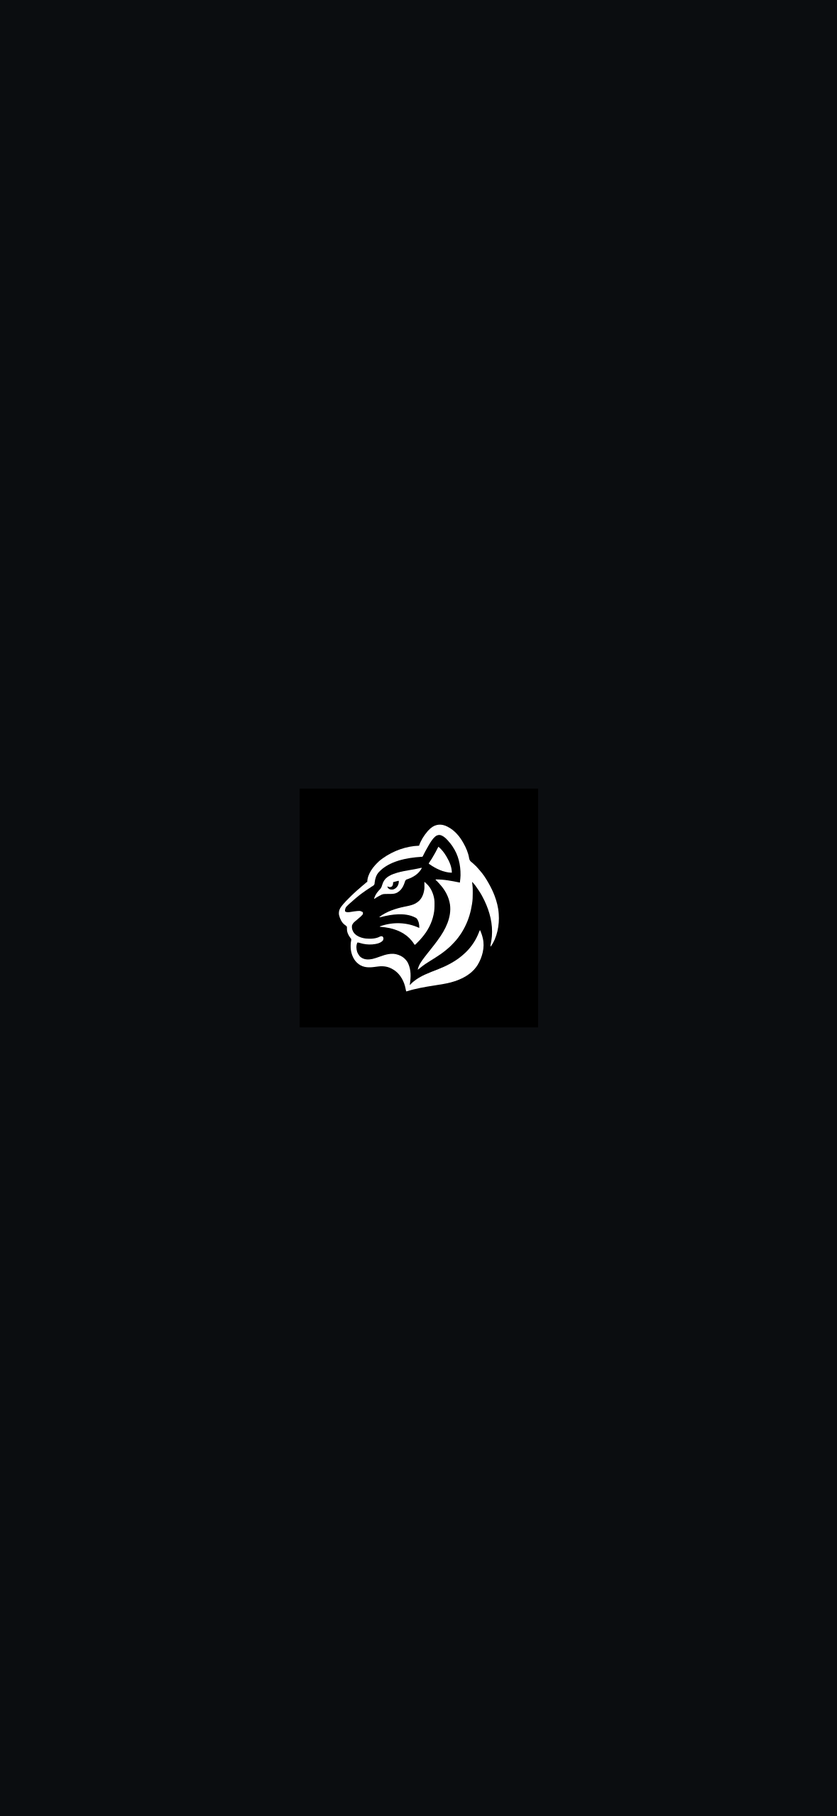
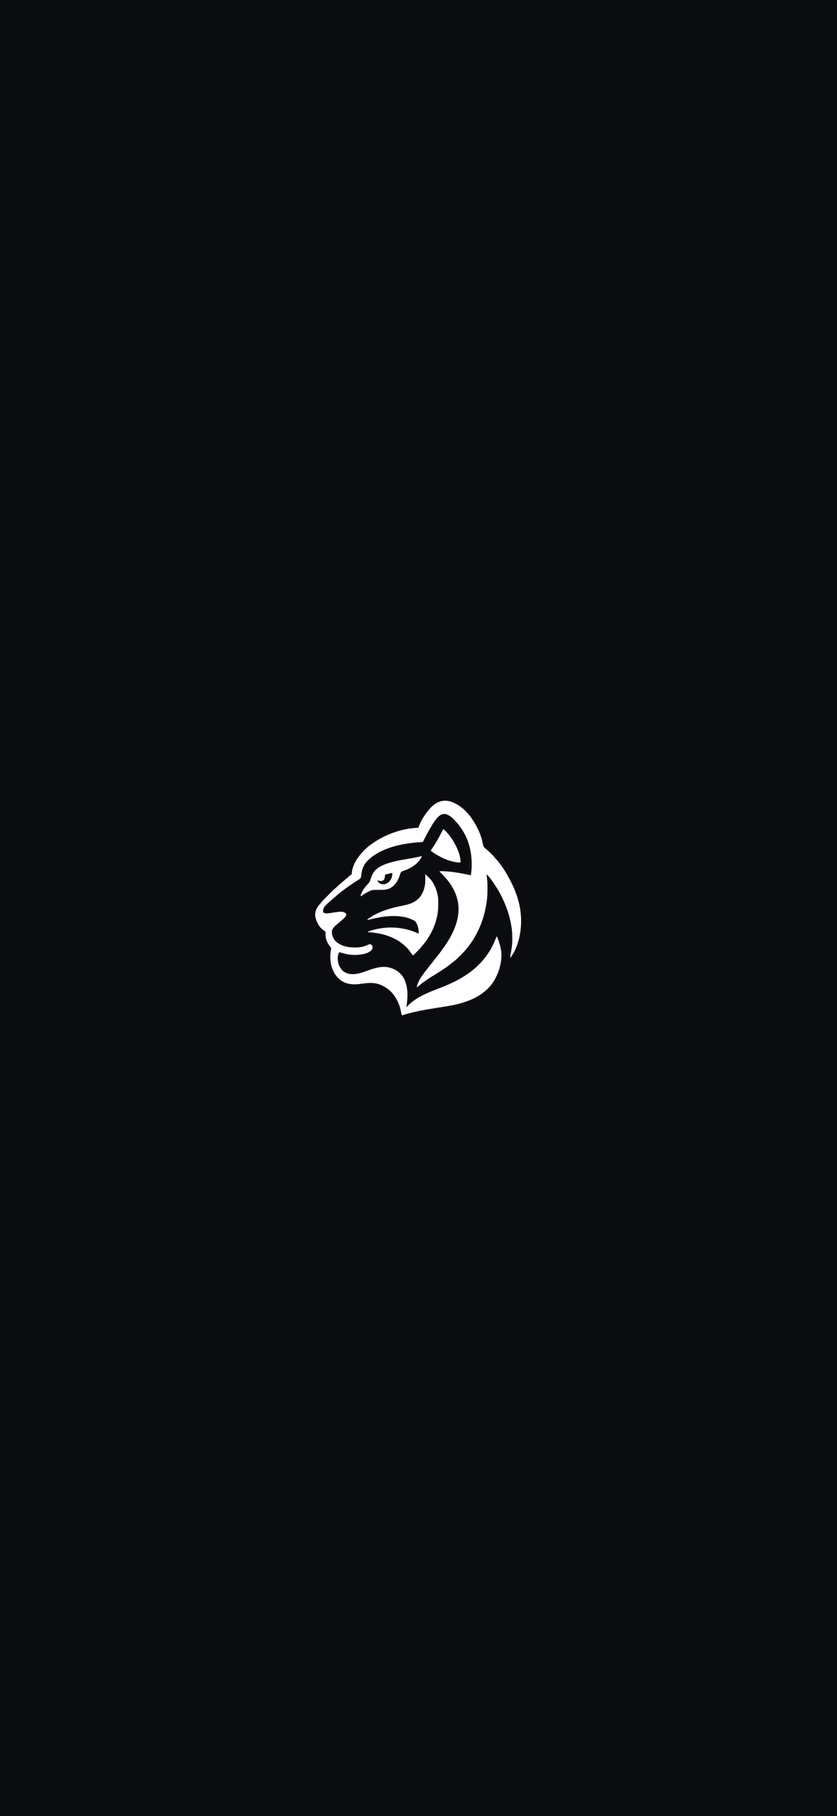
Polish KIMENG launch and ship offline mobile assets

Changed region(s): [[0.3664, 0.4327, 0.6412, 0.5563]]

diff --git a/public/sw.js b/public/sw.js
@@ -1,13 +1,15 @@
 // Bump this release cache when shipping app changes so installed PWAs cannot replay an old page shell with mismatched assets.
-const CACHE_NAME = 'a-reit-offline-v4'
+const KIMENG = self.location.origin === 'https://kimengresearch.com'
+const CACHE_NAME = KIMENG ? 'a-reit-offline-kimeng-v5' : 'a-reit-offline-v4'
+const OFFLINE_PAGE = KIMENG ? '/offline-kimeng' : '/offline'
 const SHELL_WAIT_MS = 1500
 // Installed app (Home Screen web app, Android client): the page says so once (lib/document-preferences-bootstrap.ts)
 // and the worker keeps the answer here, because the launch navigation arrives before any page code can run.
 const INSTALLED_KEY = '/__rwa/installed-app'
 // A launch shell older than this is not shown instantly; it waits for the network like any other navigation.
 const LAUNCH_SHELL_MAX_AGE_MS = 3 * 24 * 3600 * 1000
-const OFFLINE_ASSETS = [
-  '/offline',
+const OFFLINE_ASSETS = KIMENG ? [OFFLINE_PAGE, '/brand/kimeng/mark-light.svg', '/home'] : [
+  OFFLINE_PAGE,
   '/brand/a-reit/app-icon.svg',
   '/icons/a-reit-v1-192.png',
   '/icons/a-reit-v1-512.png',
@@ -53,6 +55,7 @@ const PACK_CACHE = 'a-reit-pack'
 const PACK_MAX_BYTES = 400 * 1024
 let packRun = null
 function packWanted(file) {
+  if (KIMENG) return file.p !== '/offline-kimeng.html' // The public URL is already precached.
   return file.p.startsWith('/_next/static/') || (file.s <= PACK_MAX_BYTES && !/^\/(?:ai-ocr|vendor|media\/referral)\//.test(file.p))
 }
 async function warmPack() {
@@ -63,14 +66,16 @@ async function warmPack() {
   const wanted = new Set(want.map((file) => file.p))
   const cache = await caches.open(PACK_CACHE)
   const have = new Set((await cache.keys()).map((request) => new URL(request.url).pathname))
-  await Promise.all([...have].filter((path) => !wanted.has(path)).map((path) => cache.delete(path)))
-  for (const file of want) {
-    if (have.has(file.p)) continue
+  const save = async (file) => {
+    if (have.has(file.p)) return
     try {
       const body = await fetch(file.p, { cache: 'no-cache' })
       if (body.ok && !(body.headers.get('content-type') || '').includes('text/html')) await cache.put(file.p, body)
     } catch { /* offline or evicted: the next launch resumes */ }
   }
+  const concurrency = KIMENG ? 4 : 1
+  for (let i = 0; i < want.length; i += concurrency) await Promise.all(want.slice(i, i + concurrency).map(save))
+  await Promise.all([...have].filter((path) => !wanted.has(path)).map((path) => cache.delete(path)))
 }
 
 self.addEventListener('message', (event) => {
@@ -116,7 +121,12 @@ self.addEventListener('fetch', (event) => {
   if (event.request.mode === 'navigate') {
     // Never replay a cached authentication page or one-time callback URL.
     if (/^\/(?:auth|login|register|verify-email|recovery)(?:\/|$)/.test(url.pathname)) {
-      event.respondWith(fetch(event.request).catch(() => caches.match('/offline')))
+      event.respondWith(fetch(event.request).catch(() => caches.match(OFFLINE_PAGE)))
+      return
+    }
+    // Kimeng only saves anonymous route shells. Account pages and query-bearing links stay live.
+    if (KIMENG && (url.search || !['/', '/home', '/markets', '/community', '/quant', '/predictions'].includes(url.pathname))) {
+      event.respondWith(fetch(event.request).catch(() => caches.match(OFFLINE_PAGE)))
       return
     }
     // Network first, as before, but a launch never waits on a slow network for longer than SHELL_WAIT_MS when
@@ -132,10 +142,10 @@ self.addEventListener('fetch', (event) => {
         }
         // Cloudflare failures are HTTP responses, not network exceptions.
         // Keep the installed app usable with its last valid shell on a 5xx.
-        if (response.status >= 500) return (await caches.match(event.request)) || (await caches.match('/offline')) || response
+        if (response.status >= 500) return (await caches.match(event.request)) || (await caches.match(OFFLINE_PAGE)) || response
         return response
       })
-      .catch(async () => (await caches.match(event.request)) || (await caches.match('/home')) || caches.match('/offline'))
+      .catch(async () => (await caches.match(event.request)) || (await caches.match('/home')) || caches.match(OFFLINE_PAGE))
     event.waitUntil(network.catch(() => null))
     event.respondWith(instantLaunchShell(event.request).catch(() => null).then((shell) => shell || Promise.race([
       network,

diff --git a/lib/launch-splash.ts b/lib/launch-splash.ts
@@ -4,25 +4,28 @@
  * marked the document `data-launch="app"` (Home Screen web app or the Android client), never in a browser tab.
  *
  * It leaves as soon as the first real screen has rendered, i.e. once no `[data-app-loading]` placeholder is left
- * (the entry and lazy screens all render AppLoading while their code loads), with an 8s safety stop. This replaces
- * the fixed 1.24s logo animation that used to play after the code had loaded, which on Android was a second splash
- * after the system's own.
+ * (the entry and lazy screens all render AppLoading while their code loads), with an 8s safety stop.
  *
  * Geometry matches the iOS startup images in public/startup: a 112px icon centred on the full screen.
  */
 import { BRAND } from './brand/build-brand'
 export const LAUNCH_ICON_SIZE = 112
+const isKimeng = BRAND.id === 'kimeng'
+const launchMark = isKimeng ? '/brand/kimeng/mark-light.svg' : BRAND.icon512
 
 // State lives on <html> (data-launch-state: "leaving" | "gone"), never in this element: React owns the element's
 // container and may recreate it during hydration, but it leaves <html> attributes alone (the theme bootstrap relies
 // on the same), so a recreated splash still follows the state and cannot get stuck on screen.
 export const launchSplashStyle = `#launch-splash{display:none}
-html[data-launch="app"]:not([data-launch-state="gone"]) #launch-splash{display:grid;place-items:center;position:fixed;inset:0;z-index:2147483000;background:var(--page-chrome-color,${BRAND.id === 'kimeng' ? '#F5F6F8' : '#F4F1EA'});transition:opacity .28s ease}
+html[data-launch="app"]:not([data-launch-state="gone"]) #launch-splash{display:grid;place-items:center;position:fixed;inset:0;z-index:2147483000;background:var(--page-chrome-color,${isKimeng ? '#F5F6F8' : '#F4F1EA'});transition:opacity ${isKimeng ? '.24s' : '.28s'} ease-out}
 html[data-launch-state="leaving"] #launch-splash{opacity:0;pointer-events:none}
 #launch-splash img{width:${LAUNCH_ICON_SIZE}px;height:${LAUNCH_ICON_SIZE}px;display:block}
-@media (prefers-reduced-motion:reduce){html[data-launch="app"] #launch-splash{transition:none}}`
+${isKimeng ? `html[data-theme="dark"] #launch-splash img{filter:invert(1)}
+#launch-splash img{transition:transform .24s ease-out}
+html[data-launch-state="leaving"] #launch-splash img{transform:scale(1.045)}` : ''}
+@media (prefers-reduced-motion:reduce){html[data-launch="app"] #launch-splash{transition:none}html[data-launch-state="leaving"] #launch-splash img{transition:none;transform:none}}`
 
-export const launchSplashMarkup = `<div id="launch-splash" aria-hidden="true"><img src="${BRAND.icon512}" width="${LAUNCH_ICON_SIZE}" height="${LAUNCH_ICON_SIZE}" alt="" decoding="sync" fetchpriority="high"></div>`
+export const launchSplashMarkup = `<div id="launch-splash" aria-hidden="true"><img src="${launchMark}" width="${LAUNCH_ICON_SIZE}" height="${LAUNCH_ICON_SIZE}" alt="" decoding="sync" fetchpriority="high"></div>`
 
 export const launchSplashScript = `(() => {
   const root = document.documentElement;

diff --git a/public/offline-kimeng.html b/public/offline-kimeng.html
@@ -1,0 +1,29 @@
+<!doctype html>
+<html lang="zh-CN">
+<meta charset="utf-8">
+<meta name="viewport" content="width=device-width, initial-scale=1, viewport-fit=cover">
+<meta name="robots" content="noindex,nofollow">
+<title>KIMENG</title>
+<script>
+  let theme
+  try { theme = localStorage.getItem('rwa.theme') || localStorage.getItem('rwa-app-theme') } catch {}
+  document.documentElement.dataset.theme = theme === 'dark' || theme !== 'light' && matchMedia('(prefers-color-scheme: dark)').matches ? 'dark' : 'light'
+</script>
+<style>
+  :root { color-scheme: light; --paper: #f5f6f8; --ink: #121416; }
+  :root[data-theme="dark"] { color-scheme: dark; --paper: #0a0c10; --ink: #f5f6f8; }
+  [data-theme="dark"] img { filter: invert(1); }
+  body { margin: 0; min-height: 100vh; min-height: 100dvh; display: grid; place-items: center; background: var(--paper); color: var(--ink); font: 16px/1.6 system-ui, sans-serif; }
+  main { width: min(22rem, 84vw); text-align: center; }
+  img { width: 112px; height: 112px; }
+  h1 { font-size: 24px; margin: 16px 0 4px; }
+  p { margin: 0 0 24px; }
+  a { display: inline-grid; place-items: center; min-height: 48px; padding: 0 28px; border-radius: 24px; background: var(--ink); color: var(--paper); text-decoration: none; }
+</style>
+<main>
+  <img src="/brand/kimeng/mark-light.svg" alt="KIMENG" width="112" height="112">
+  <h1>当前处于离线状态</h1>
+  <p>连接网络后可刷新行情、登录或操作账户。</p>
+  <a href="/home">返回首页</a>
+</main>
+</html>

diff --git a/lib/android-app.ts b/lib/android-app.ts
@@ -8,7 +8,7 @@ import { BRAND } from './brand/build-brand'
  * to public/download/; while `url` is null the install sheet offers only "Open in Chrome".
  */
 export const ANDROID_APP: { url: string | null; version: string; sha256: string } = BRAND.id === 'kimeng'
[1 lines of base64/hex data omitted]
+  ? { url: 'https://dl.a-reit.com/android/kimeng-android-1.0.1.apk', version: '1.0.1', sha256: '' }
[1 lines of base64/hex data omitted]
 
 /** Signing certificate SHA-256 (apksigner verify --print-certs); every later version must show the same one. */
@@ -46,6 +46,6 @@ const BASE_APP_OFFER: Record<AppLocale, { download: string; meta: string; chrome
 }
 export const APP_OFFER = Object.fromEntries(Object.entries(BASE_APP_OFFER).map(([locale, copy]) => [locale, {
   ...copy,
-  download: copy.download.replaceAll('A-REIT', BRAND.id === 'kimeng' ? (locale === 'zh-CN' ? '金英' : 'KIMENG') : 'A-REIT'),
-  title: copy.title.replaceAll('A-REIT', BRAND.id === 'kimeng' ? (locale === 'zh-CN' ? '金英' : 'KIMENG') : 'A-REIT'),
+  download: copy.download.replaceAll('A-REIT', BRAND.name),
+  title: copy.title.replaceAll('A-REIT', BRAND.name),
 }])) as typeof BASE_APP_OFFER

diff --git a/components/pwa-register.tsx b/components/pwa-register.tsx
@@ -1,7 +1,8 @@
 'use client'
 
 import { useEffect } from 'react'
-import { IS_BRAND_PREVIEW } from '@/lib/brand/build-brand'
+import { BRAND, IS_BRAND_PREVIEW } from '@/lib/brand/build-brand'
+import { isAndroidApp } from '@/lib/android-app'
 
 export default function PwaRegister() {
   useEffect(() => {
@@ -20,6 +21,22 @@ export default function PwaRegister() {
       .register('/sw.js', { updateViaCache: 'none' })
       .then((registration) => registration.update())
       .catch(() => undefined)
+
+    if (BRAND.id !== 'kimeng' || isAndroidApp()) return
+    const installed = (navigator as Navigator & { standalone?: boolean }).standalone === true ||
+      window.matchMedia('(display-mode: standalone)').matches
+    if (!installed) return
+    const warm = () => {
+      const connection = (navigator as Navigator & { connection?: { saveData?: boolean; effectiveType?: string } }).connection
+      if (connection?.saveData || /2g/.test(connection?.effectiveType ?? '')) return
+      void navigator.serviceWorker.ready.then(registration => registration.active?.postMessage({ type: 'WARM_PACK' })).catch(() => undefined)
+    }
+    const timer = window.setTimeout(warm, 6000)
+    window.addEventListener('online', warm)
+    return () => {
+      window.clearTimeout(timer)
+      window.removeEventListener('online', warm)
+    }
   }, [])
 
   return null

diff --git a/lib/prefetch-screens.ts b/lib/prefetch-screens.ts
@@ -1,5 +1,7 @@
 'use client'
 
+import { BRAND } from './brand/build-brand'
+
 /**
  * Warm the screens people open next (2026-11-04, user: page changes felt like a website). Every screen is a lazy chunk,
  * so the first visit to Markets or a product waited for a download and showed a blank or loader mid-transition. After
@@ -36,7 +38,7 @@ export function prefetchScreens() {
   // The iPhone Home Screen app keeps the build's pack on the phone (public/sw.js WARM_PACK); the Android client
   // already ships it in the APK, and a browser tab is not worth 25 MB.
   const standalone = (navigator as Navigator & { standalone?: boolean }).standalone === true || window.matchMedia('(display-mode: standalone)').matches
-  if (standalone && !navigator.userAgent.includes('RwaLatAndroidTrial/') && 'serviceWorker' in navigator) {
+  if (BRAND.id === 'areit' && standalone && !navigator.userAgent.includes('RwaLatAndroidTrial/') && 'serviceWorker' in navigator) {
     window.setTimeout(() => idle(() => { void navigator.serviceWorker.ready.then((registration) => registration.active?.postMessage({ type: 'WARM_PACK' })).catch(() => {}) }), 6000)
   }
 }

diff --git a/components/home/HomeInstall.tsx b/components/home/HomeInstall.tsx
@@ -222,7 +222,7 @@ export function InstallSheet({ open, env, canPrompt, copy, onClose }: { open: bo
         </div>}
         {appOffer && <div className={styles.appOffer}>
           {ANDROID_APP.url && <a className={styles.primary} href={ANDROID_APP.url} download><Download size={16} strokeWidth={1.8} aria-hidden={true} />{app.download}</a>}
-          {ANDROID_APP.url && <small>{app.meta.replace('{v}', ANDROID_APP.version).replace('{h}', ANDROID_APP.sha256.slice(0, 12))}</small>}
+          {ANDROID_APP.url && <small>{(ANDROID_APP.sha256 ? app.meta : app.meta.split(' · ')[0]).replace('{v}', ANDROID_APP.version).replace('{h}', ANDROID_APP.sha256.slice(0, 12))}</small>}
           <a className={styles.secondary} href={chromeIntentUrl(window.location.href, ANDROID_APP.url ? new URL(ANDROID_APP.url, window.location.href).href : window.location.href)}><ExternalLink size={15} strokeWidth={1.8} aria-hidden={true} />{app.chrome}</a>
         </div>}
         <p className={styles.stepsLabel}>{appOffer ? app.shortcut : native ? copy.manual : copy.steps}</p>

diff --git a/lib/ios-startup-images.ts b/lib/ios-startup-images.ts
@@ -18,6 +18,6 @@ const sizes: [number, number, number][] = [
 ]
 
 export const iosStartupImages = sizes.flatMap(([width, height, ratio]) => (['light', 'dark'] as const).map(theme => ({
-  url: `/startup/${BRAND.id === 'kimeng' ? 'kimeng' : 'a-reit'}-${width}x${height}-${ratio}x-${theme}.png`,
+  url: `/startup/${BRAND.id === 'kimeng' ? 'kimeng' : 'a-reit'}-${width}x${height}-${ratio}x-${theme}.png${BRAND.id === 'kimeng' ? '?v=2' : ''}`,
   media: `(device-width: ${width}px) and (device-height: ${height}px) and (-webkit-device-pixel-ratio: ${ratio}) and (orientation: portrait) and (prefers-color-scheme: ${theme})`,
 })))

diff --git a/scripts/prepare-kimeng-android.py b/scripts/prepare-kimeng-android.py
@@ -1,7 +1,9 @@
 """Prepare a separate Kimeng Android project from the reviewed A-REIT Android source."""
 from pathlib import Path
+import re
 import shutil
 import sys
+import xml.etree.ElementTree as ET
 
 root = Path(__file__).resolve().parent.parent
 source = root / 'apps/android-client'
@@ -20,8 +22,8 @@ def edit(relative, changes):
     path.write_text(original,encoding='utf-8',newline='\n')
 
 edit('app/build.gradle',[("applicationId 'com.areit.app'","applicationId 'com.kimeng.app'"),
-    ("versionCode 12","versionCode 1"),("versionName '1.1.9'","versionName '1.0.0'")])
-edit('app/src/main/AndroidManifest.xml',[('android:label="A-REIT"','android:label="金英 KIMENG"'),
+    ("versionCode 12","versionCode 2"),("versionName '1.1.9'","versionName '1.0.1'")])
+edit('app/src/main/AndroidManifest.xml',[('android:label="A-REIT"','android:label="KIMENG"'),
     ('android:scheme="areit"','android:scheme="kimeng"')])
 java='app/src/main/java/lat/rwa/trial/'
 edit(java+'UrlPolicy.java',[
@@ -33,8 +35,7 @@ edit(java+'MainActivity.java',[
     ('"areit".equals(data.getScheme())','"kimeng".equals(data.getScheme())'),
     ('"退出 A-REIT？"','"退出金英？"'),('setTitle("A-REIT")','setTitle("KIMENG")'),
     ('"/A-REIT"','"/KIMENG"'),('"A-REIT");','"KIMENG");')])
-edit(java+'AppPack.java',[('"a-reit.com".equalsIgnoreCase','"kimengresearch.com".equalsIgnoreCase'),
-    ('brand/a-reit','brand/(?:a-reit|kimeng)')])
+edit(java+'AppPack.java',[('"a-reit.com".equalsIgnoreCase','"kimengresearch.com".equalsIgnoreCase')])
 tests='app/src/test/java/lat/rwa/trial/'
 for filename in ('UrlPolicyTest.java','AppPackTest.java'):
     path=destination/tests/filename
@@ -42,4 +43,41 @@ for filename in ('UrlPolicyTest.java','AppPackTest.java'):
     data=data.replace('A-REIT.COM','KIMENGRESEARCH.COM').replace('a-reit.com','kimengresearch.com').replace('areit://','kimeng://')
     path.write_text(data.replace('API_ORIGIN_SENTINEL','api.a-reit.com'),encoding='utf-8',newline='\n')
 shutil.copyfile(root/'public/brand/kimeng/app-icon-512.png',destination/'app/src/main/res/drawable-nodpi/rwa_icon.png')
+
+# Use the bare vector for the system splash. The launcher keeps its separate tile.
+res = destination / 'app/src/main/res'
+ns = 'http://schemas.android.com/apk/res/android'
+ET.register_namespace('android', ns)
+
+def element(parent, name, **attrs):
+    values = {f'{{{ns}}}{key}': value for key, value in attrs.items()}
+    return ET.Element(name, values) if parent is None else ET.SubElement(parent, name, values)
+
+def drawable(name, node):
+    ET.ElementTree(node).write(res / f'drawable/{name}.xml', encoding='utf-8', xml_declaration=True)
+
+master = ET.parse(root / 'public/brand/kimeng/mark-light.svg').getroot()
+_, _, width, height = master.attrib['viewBox'].split()
+group, = list(master)
+shift_x, shift_y, scale = re.fullmatch(r'translate\(([^,]+),([^)]+)\) scale\(([^)]+)\)', group.attrib['transform']).groups()
+for theme, color in [('light', '#000000'), ('dark', '#FFFFFF')]:
+    vector = element(None, 'vector', width='112dp', height='112dp', viewportWidth=width, viewportHeight=height)
+    layout = element(vector, 'group', translateX=shift_x, translateY=shift_y, scaleX=scale, scaleY=scale)
+    for path in group:
+        x, y = re.fullmatch(r'translate\(([^,]+),([^)]+)\)', path.attrib['transform']).groups()
+        translated = element(layout, 'group', translateX=x, translateY=y)
+        element(translated, 'path', fillColor=color, pathData=path.attrib['d'])
+    drawable(f'launch_mark_{theme}', vector)
+    drawable(f'splash_icon_{theme}', element(None, 'inset', drawable=f'@drawable/launch_mark_{theme}', inset='30.56%'))
+    edit(f'app/src/main/res/drawable/launch_window_{theme}.xml', [('@drawable/rwa_icon', f'@drawable/launch_mark_{theme}')])
+    background = f'<item name="android:windowSplashScreenBackground">@color/launch_bg_{theme}</item>'
+    edit('app/src/main/res/values-v31/styles.xml', [(background,
+        f'{background}\n        <item name="android:windowSplashScreenAnimatedIcon">@drawable/splash_icon_{theme}</item>')])
+
+for folder, theme in [('values', 'light'), ('values-night', 'dark')]:
+    edit(f'app/src/main/res/{folder}/colors.xml', [
+        ('</resources>', f'    <item type="drawable" name="launch_mark">@drawable/launch_mark_{theme}</item>\n</resources>'),
+    ])
+edit('app/src/main/res/drawable/launch_window.xml', [('@drawable/rwa_icon', '@drawable/launch_mark')])
+drawable('splash_icon', element(None, 'inset', drawable='@drawable/launch_mark', inset='30.56%'))
 print('Prepared separate Kimeng Android project:',destination)

diff --git a/apps/android-client/app/src/main/java/lat/rwa/trial/MainActivity.java b/apps/android-client/app/src/main/java/lat/rwa/trial/MainActivity.java
@@ -1,6 +1,7 @@
 package lat.rwa.trial;
 
 import android.Manifest;
+import android.animation.ValueAnimator;
 import android.annotation.SuppressLint;
 import android.app.Activity;
 import android.app.AlertDialog;
@@ -69,6 +70,7 @@ import java.util.Set;
 /** A-REIT Android client: the website edge to edge, with native launch, system bars, voice and files. Business state and authentication remain in the website. */
 public final class MainActivity extends Activity {
     private static final String HOME = "https://a-reit.com/home";
+    private static final String KIMENG_OFFLINE = "/offline-kimeng.html";
     private static final int MEDIA_PERMISSION = 101, GEO_PERMISSION = 102, VOICE_PERMISSION = 103, CAMERA_PERMISSION = 104, FILE_PICK = 201, CAMERA_PICK = 202, STORAGE_PERMISSION = 105;
     private WebView webView;
     private FrameLayout pageContainer;
@@ -149,6 +151,14 @@ public final class MainActivity extends Activity {
         webView.setHorizontalScrollBarEnabled(false);
         pageContainer.addView(webView, new FrameLayout.LayoutParams(ViewGroup.LayoutParams.MATCH_PARENT, ViewGroup.LayoutParams.MATCH_PARENT));
         setContentView(pageContainer);
+        if (Build.VERSION.SDK_INT >= 31 && isKimeng()) {
+            getSplashScreen().setOnExitAnimationListener(splash -> {
+                if (!ValueAnimator.areAnimatorsEnabled()) { splash.remove(); return; }
+                View icon = splash.getIconView();
+                if (icon != null) icon.animate().scaleX(1.045f).scaleY(1.045f).setDuration(240).start();
+                splash.animate().alpha(0f).setDuration(240).withEndAction(splash::remove).start();
+            });
+        }
         holdLaunchUntilReady();
         WebSettings settings = webView.getSettings();
         settings.setJavaScriptEnabled(true); settings.setDomStorageEnabled(true);
@@ -180,6 +190,7 @@ public final class MainActivity extends Activity {
         handleBrowserSignIn(intent);
     }
 
+    private boolean isKimeng() { return "com.kimeng.app".equals(getPackageName()); }
     private int dp(int value) { return Math.round(value * getResources().getDisplayMetrics().density); }
     /** Dark icons on a light page, light icons on a dark page; the bars themselves stay transparent. */
     private void setBarIcons(boolean lightPage) {
@@ -487,7 +498,15 @@ public final class MainActivity extends Activity {
         }
         @Override public void onPageCommitVisible(WebView view, String url) { pushInsets(); finishHandoffInjection(url); }
         @Override public void onReceivedError(WebView view, WebResourceRequest request, WebResourceError error) {
-            if (request.isForMainFrame()) { mainFrameFailed = true; showError("请检查网络连接，再重新加载。", request.getUrl().toString()); }
+            if (!request.isForMainFrame()) return;
+            mainFrameFailed = true;
+            int code = error.getErrorCode();
+            if (isKimeng() && !KIMENG_OFFLINE.equals(request.getUrl().getPath()) &&
+                (code == ERROR_HOST_LOOKUP || code == ERROR_CONNECT || code == ERROR_TIMEOUT || code == ERROR_IO)) {
+                view.loadUrl(UrlPolicy.ORIGIN + KIMENG_OFFLINE);
+                return;
+            }
+            showError("请检查网络连接，再重新加载。", request.getUrl().toString());
         }
         @Override public void onReceivedHttpError(WebView view, WebResourceRequest request, WebResourceResponse response) {
             if (request.isForMainFrame() && response.getStatusCode() >= 400) { mainFrameFailed = true; showError("服务器暂时不可用（" + response.getStatusCode() + "）。请稍后重试。", request.getUrl().toString()); }

diff --git a/apps/android-client/app/src/main/java/lat/rwa/trial/AppPack.java b/apps/android-client/app/src/main/java/lat/rwa/trial/AppPack.java
@@ -32,7 +32,7 @@ import java.util.regex.Pattern;
 final class AppPack {
     private static final String ORIGIN = UrlPolicy.ORIGIN;
     // Must cover every folder scripts/app-pack-manifest.mjs packs: a file outside these ships in the APK but is never served.
-    private static final Pattern PATH = Pattern.compile("^/(?:_next/static|icons|brand/a-reit|media/(?:home|palette-a|porcelain|quant|referral|products|generated|login|brand)|auth|fonts|avatars|baskets|asset-icons|ai-ocr|vendor/jsqr)/[A-Za-z0-9._~@+\\-/\\[\\]()]+$");
+    private static final Pattern PATH = Pattern.compile("^/(?:offline-kimeng\\.html|(?:_next/static|icons|brand/(?:a-reit|kimeng)|media/(?:home|palette-a|porcelain|quant|referral|products|generated|login|brand)|auth|fonts|avatars|baskets|asset-icons|ai-ocr|vendor/jsqr)/[A-Za-z0-9._~@+\\-/\\[\\]()]+)$");
     private static final Pattern HASH = Pattern.compile("^[0-9a-f]{64}$");
     private static final long MAX_FILE = 8L * 1024 * 1024, MAX_UPDATE = 128L * 1024 * 1024;
 
@@ -105,6 +105,7 @@ final class AppPack {
 
     static String mime(String path) {
         String lower = path.toLowerCase(Locale.ROOT);
+        if (lower.equals("/offline-kimeng.html")) return "text/html";
         if (lower.endsWith(".js") || lower.endsWith(".mjs")) return "text/javascript";
         if (lower.endsWith(".css")) return "text/css";
         if (lower.endsWith(".woff2")) return "font/woff2";
